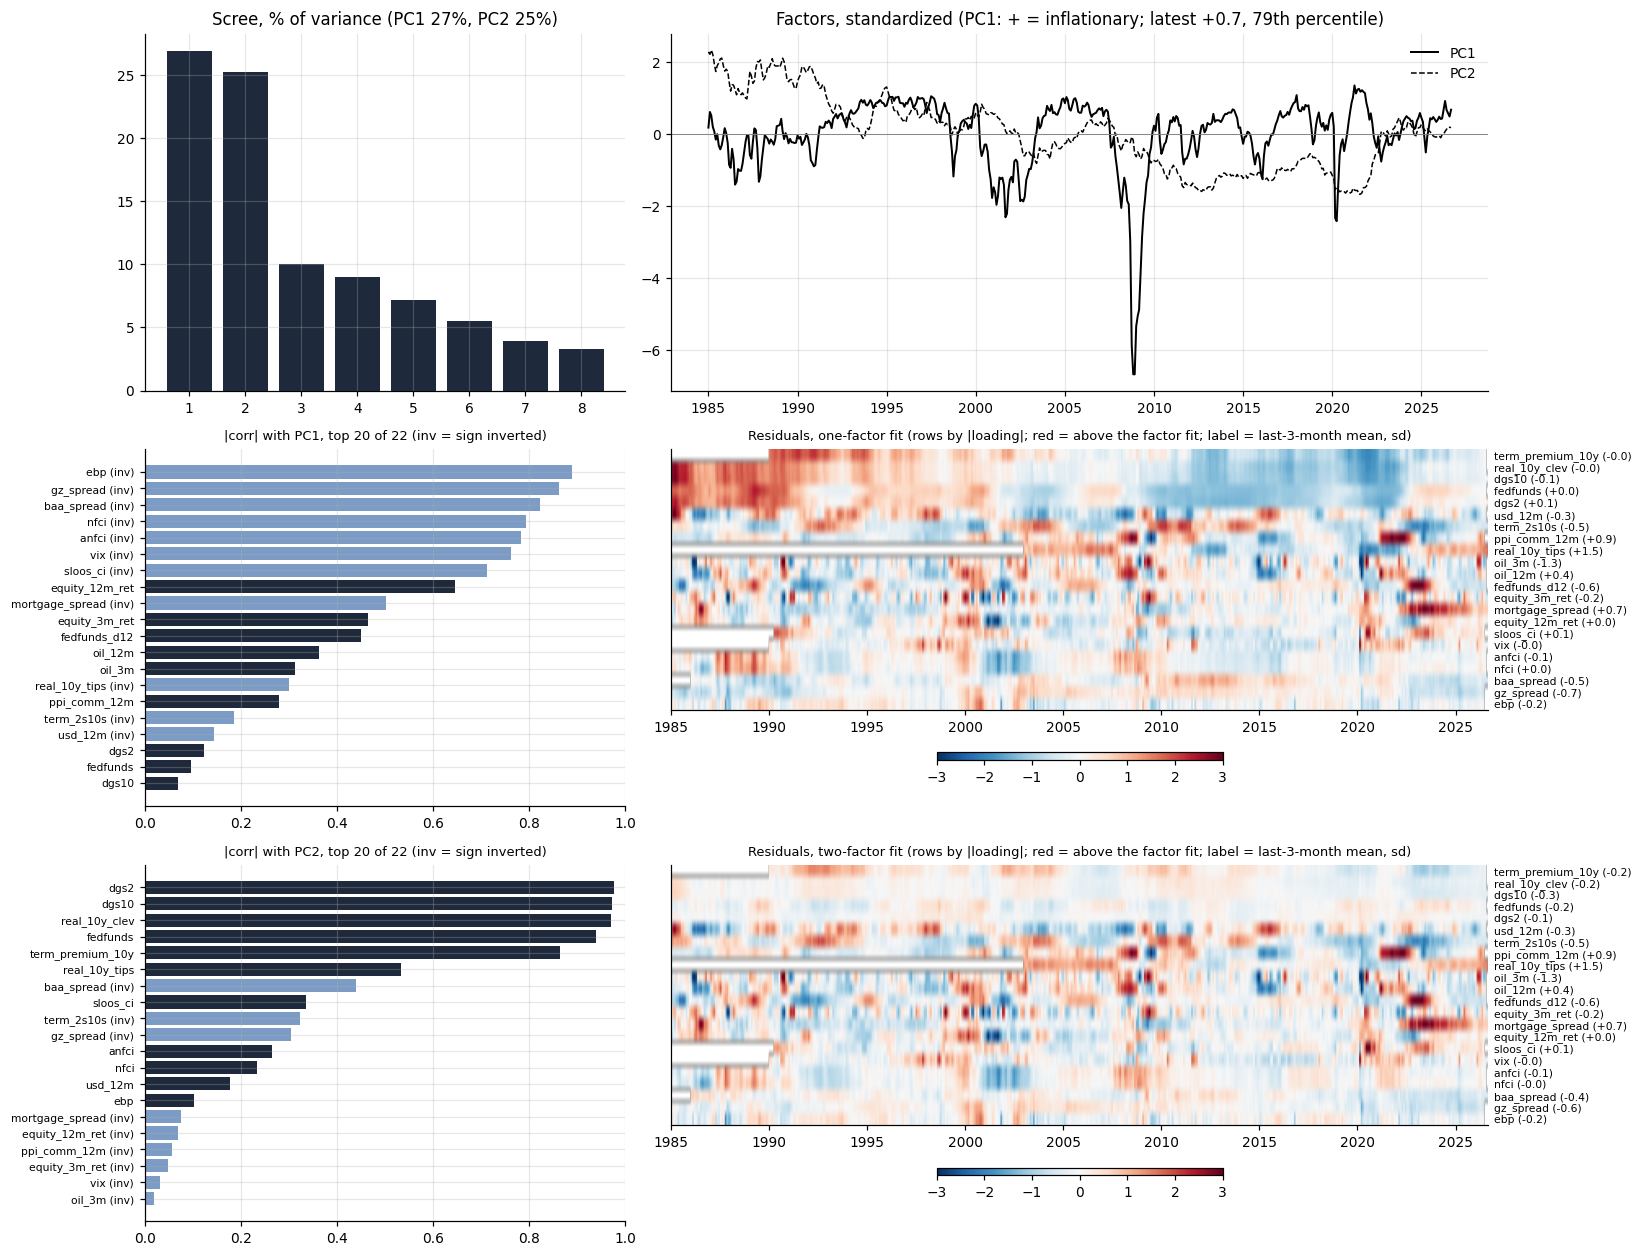
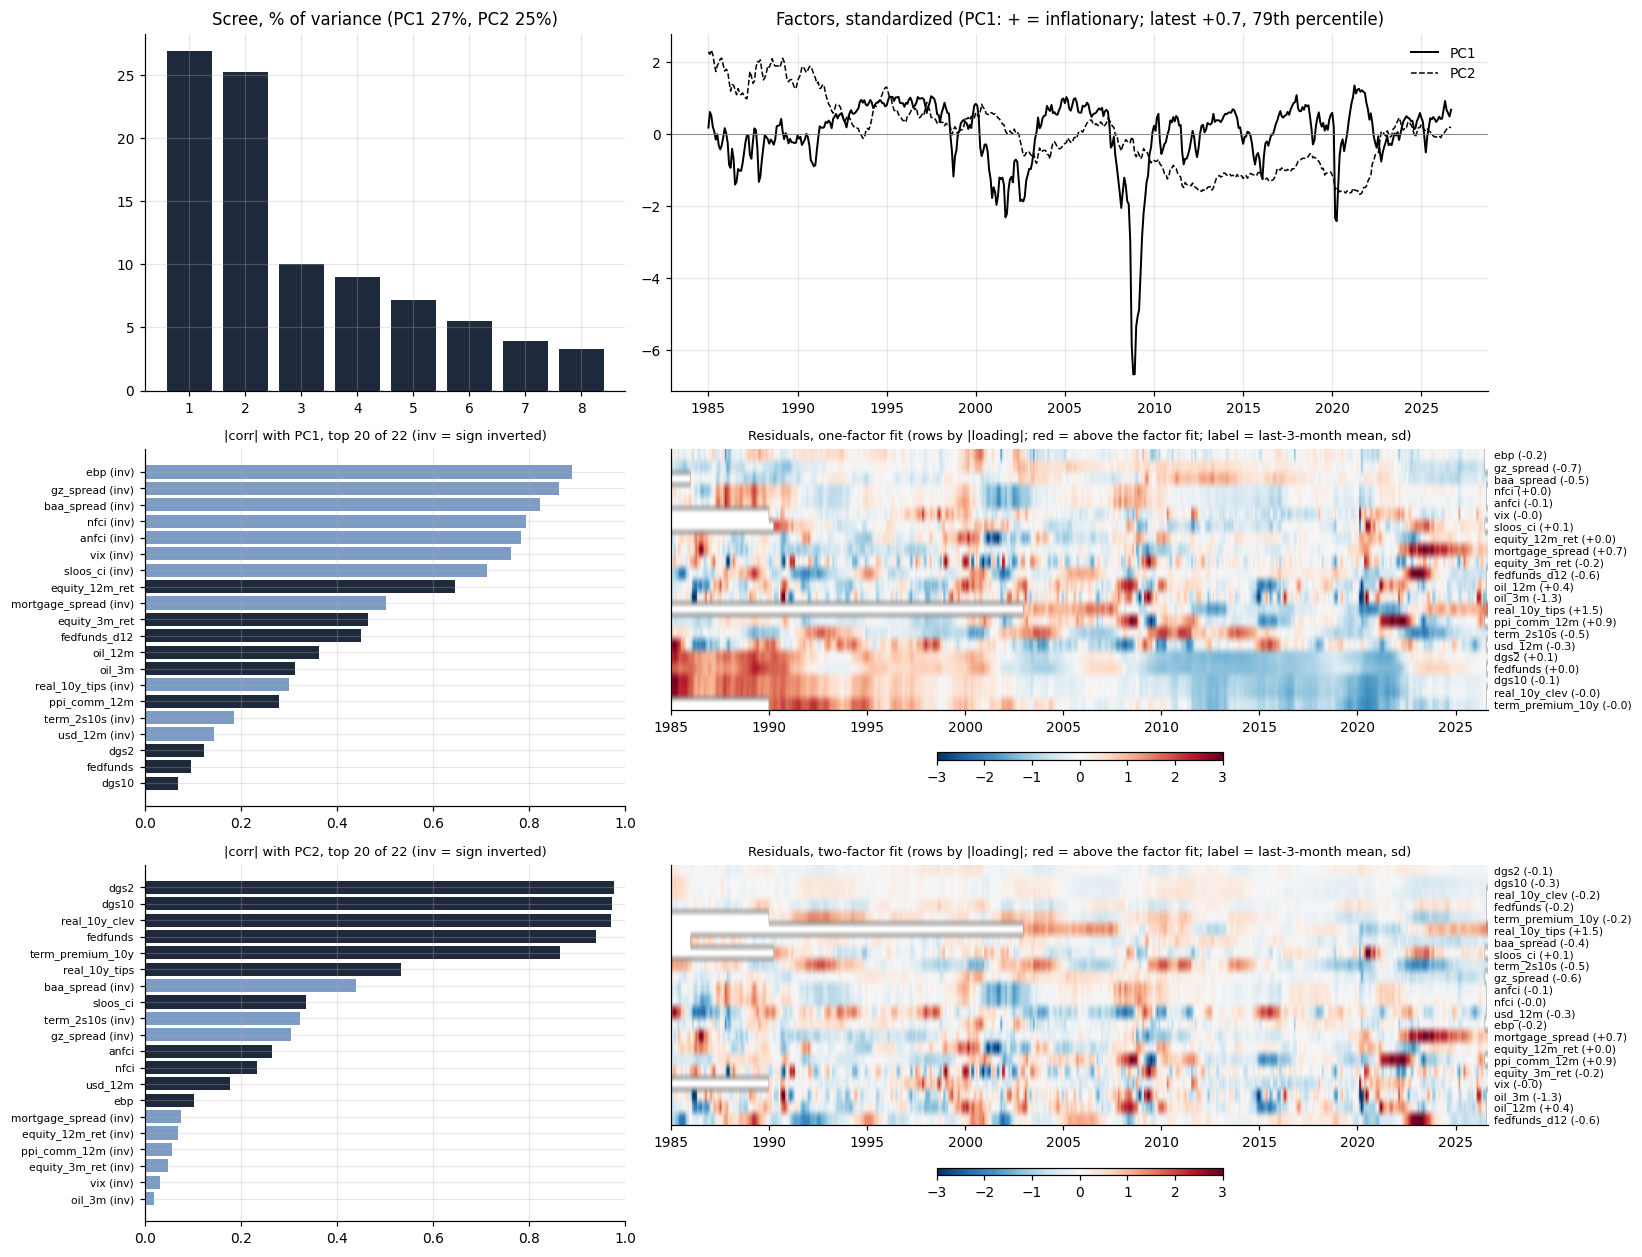
US inflation signals: heatmap rows ordered like the loading bars (largest at top; PC2 heatmap by PC2)

Changed region(s): [[0.4038, 0.3413, 0.9939, 0.5895], [0.4038, 0.6826, 0.9939, 0.8998]]

diff --git a/run.py b/run.py
@@ -215,14 +215,14 @@ def block_eda(name, df, ref, flip=False, title=""):
         a.barh(range(k), show.abs().values, color=np.where(show.values > 0, "#1e293b", "#7c9cc6")); a.set_yticks(range(k)); a.set_yticklabels([f"{vname(c)}{' (inv)' if v < 0 else ''}" for c, v in show.items()], fontsize=7)
         a.set_xlim(0, 1); a.set_title(f"|corr| with {lab}, top {k} of {len(l)} (inv = sign inverted)", fontsize=8.5)
     def heat(a, res, l, lab):
-        order = l.abs().sort_values().index
+        order = l.abs().sort_values(ascending=False).index          # largest |correlation| at the top, matching the bar chart
         im = a.imshow(res[order].T.values, aspect="auto", cmap="RdBu_r", vmin=-3, vmax=3, extent=[mdates.date2num(res.index[0]), mdates.date2num(res.index[-1]), len(order), 0]); a.xaxis_date(); a.grid(False)
         last = res[order].iloc[-3:].mean()                       # label every variable when readable, otherwise only those with a large end-of-sample residual
         lab_rows = list(range(len(order))) if len(order) <= 45 else [i for i, c in enumerate(order) if abs(last[c]) > 1.0]
         a.yaxis.tick_right(); a.set_yticks([i + 0.5 for i in lab_rows]); a.set_yticklabels([f"{vname(order[i])} ({last[order[i]]:+.1f})" for i in lab_rows], fontsize=5.5 if len(lab_rows) > 25 else 7); a.tick_params(axis="y", length=0)
         a.set_title(f"Residuals, {lab} fit (rows by |loading|; red = above the factor fit; label = last-3-month mean, sd)", fontsize=8.5)
         fig.colorbar(im, ax=a, orientation="horizontal", shrink=.35, pad=.12, aspect=40)
-    corr_panel(ax[1, 0], l1, "PC1"); heat(ax[1, 1], res1, l1, "one-factor"); corr_panel(ax[2, 0], l2, "PC2"); heat(ax[2, 1], res2, l1, "two-factor")
+    corr_panel(ax[1, 0], l1, "PC1"); heat(ax[1, 1], res1, l1, "one-factor"); corr_panel(ax[2, 0], l2, "PC2"); heat(ax[2, 1], res2, l2, "two-factor")
     plt.tight_layout(); R.fig(fig, f"block_{name}", title)
     top_res = res1.iloc[-1].dropna(); top_res = top_res.reindex(top_res.abs().sort_values().index[-3:][::-1]); res = res1
     dim = "one dominant dimension" if ex[0] > 2 * ex[1] else "at least two dimensions of comparable size"
